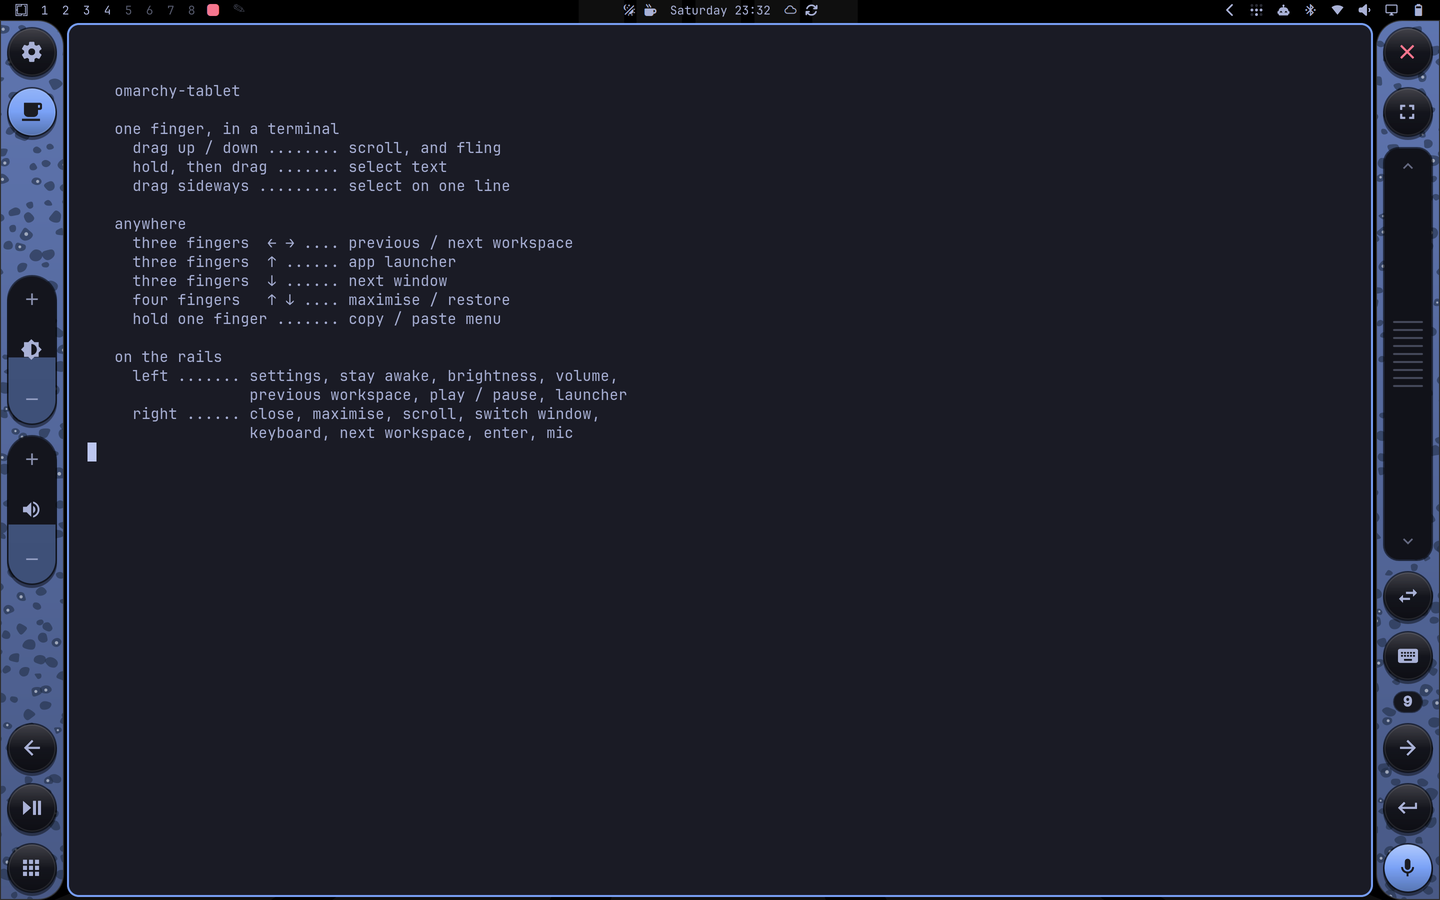
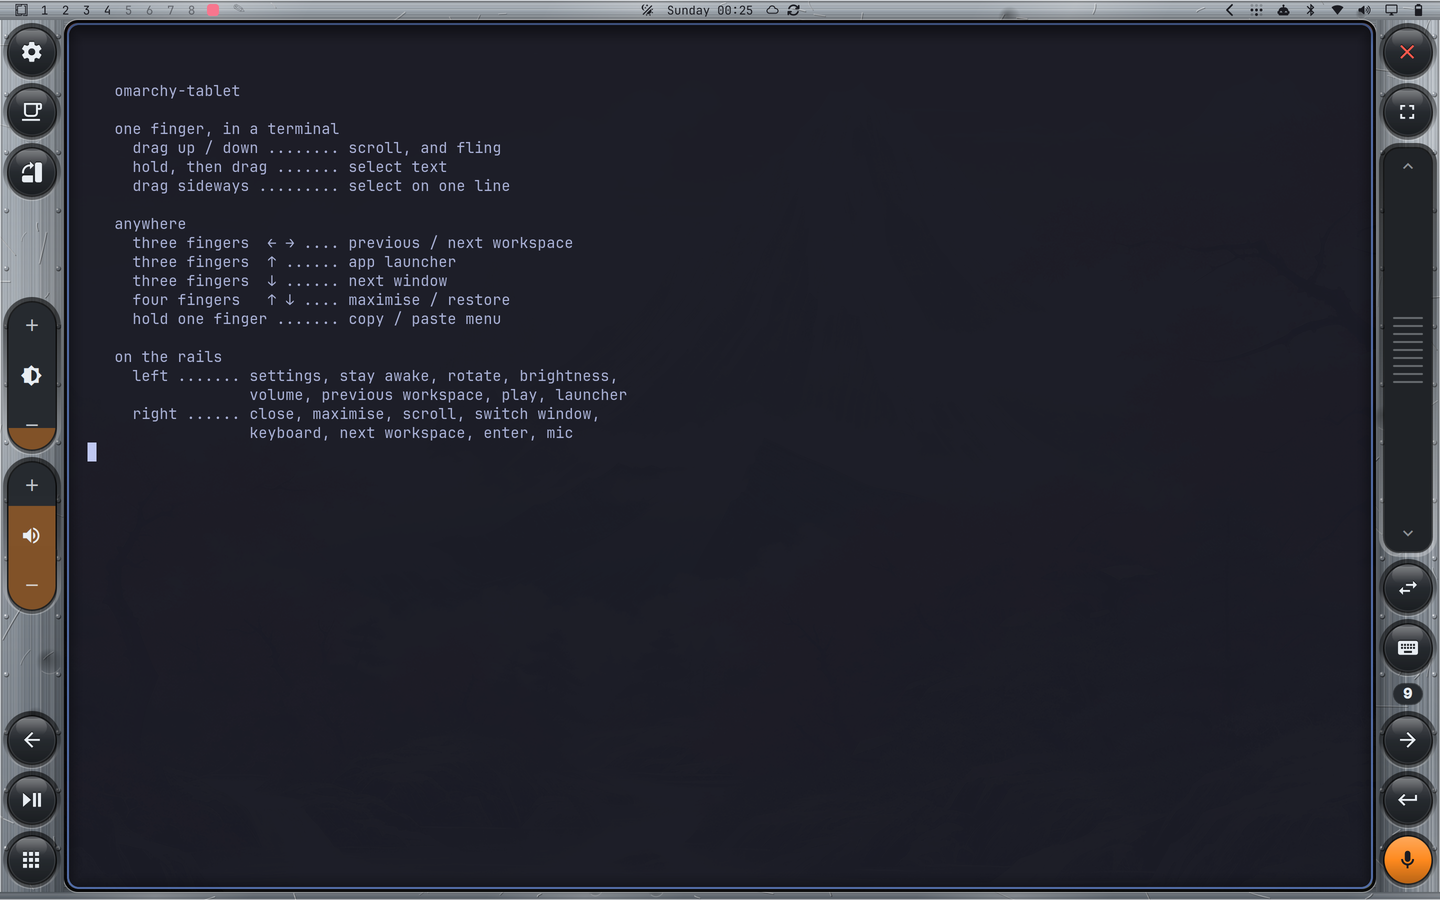
Make the frame read as an object: a recessed screen, sockets, chamfers, sheen
The screen is set down into the frame (a lit lip, the dark wall of the
recess, the frame's shadow on the screen); every control sits in a socket
with an engraved legend; outer edges are chamfered; metal and wood throw
the light back in broad bands. New screenshots.

Changed region(s): [[0.0, 0.0, 1.0, 1.0], [0.1875, 0.4044, 0.4062, 0.4667]]

diff --git a/shell/plugins/tablet.rail/Main.qml b/shell/plugins/tablet.rail/Main.qml
@@ -195,11 +195,11 @@ Item {
     // and a split in the wood, seams and warning marks on the hull.
     case "metal": return {
         label: "Metal", shellTop: "#a4adb6", shellBottom: "#626b75", cap: "#272b30", legend: "#e8edf2",
-        accent: "#ff8a1f", close: "#ff5a4d", pattern: "brushed+scratches+rivets",
+        accent: "#ff8a1f", close: "#ff5a4d", pattern: "brushed+sheen+scratches+rivets",
         ink: "#000000", glow: "#ffffff" }
     case "wood": return {
         label: "Wood", shellTop: "#b07a45", shellBottom: "#734825", cap: "#2a190d", legend: "#f3ddb8",
-        accent: "#d9a441", close: "#e0553d", pattern: "grain+cracks",
+        accent: "#d9a441", close: "#e0553d", pattern: "grain+cracks+sheen",
         ink: "#3a2110", glow: "#d7a06a" }
     case "spaceship": return {
         label: "Spaceship", shellTop: "#232e3b", shellBottom: "#0d131b", cap: "#090e14", legend: "#7ff3ff",
@@ -249,7 +249,7 @@ Item {
   // A rim skin keeps its coloured edge. Otherwise the edge is a thin dark seam:
   // the frame is shaded to fall away into the screen, and a pale line there (as
   // it was) made a second border round the windows' own.
-  readonly property color frameEdge: !skin ? "transparent" : (skin.rim ? skin.rim : Qt.alpha("black", 0.55))
+  readonly property color frameEdge: !skin ? "transparent" : (skin.rim ? skin.rim : Qt.alpha("black", 0.0))
   readonly property int frameEdgeWidth: skin && skin.rim ? 3 : 1
   readonly property string barWanted: barSkinned ? barText : ""
   onBarWantedChanged: applyBar()
@@ -611,6 +611,17 @@ Item {
       GradientStop { position: 0.5; color: b.capBase }
       GradientStop { position: 1.0; color: area.pressed ? Qt.tint(b.capBase, Qt.alpha("white", 0.08)) : Qt.darker(b.capBase, 1.45) }
     }
+    Rectangle {       // the socket: a recess in the shell the cap sits in. Its
+      visible: b.cap  // upper lip is in shadow, its lower lip catches the light.
+      z: -2
+      anchors.centerIn: parent
+      width: parent.width + 8; height: parent.height + 8; radius: width / 2
+      gradient: Gradient {
+        GradientStop { position: 0.0; color: Qt.alpha("black", 0.62) }
+        GradientStop { position: 0.55; color: Qt.alpha("black", 0.30) }
+        GradientStop { position: 1.0; color: Qt.alpha("white", 0.30) }
+      }
+    }
     Rectangle {       // the shadow the cap throws on the shell
       visible: b.cap && !area.pressed
       z: -1
@@ -646,8 +657,9 @@ Item {
                    : (b.lit ? Color.background : Color.popups.text)
       font.pixelSize: b.glyphSize
       font.bold: b.boldGlyph
-      style: Text.Outline
-      styleColor: (b.cap || b.fill > 0.9) ? "transparent" : b.idleColor
+      // On a cap the legend is cut into the surface: a dark edge above it.
+      style: b.cap ? Text.Sunken : Text.Outline
+      styleColor: b.cap ? Qt.alpha("black", 0.55) : (b.fill > 0.9 ? "transparent" : b.idleColor)
     }
 
     MouseArea {
@@ -709,6 +721,17 @@ Item {
       GradientStop { position: 0.0; color: area.pressed ? Qt.darker(m.capBase, 1.3) : Qt.lighter(m.capBase, 1.25) }
       GradientStop { position: 0.5; color: m.capBase }
       GradientStop { position: 1.0; color: area.pressed ? Qt.lighter(m.capBase, 1.1) : Qt.darker(m.capBase, 1.4) }
+    }
+    Rectangle {       // the socket (see TouchButton)
+      visible: m.cap
+      z: -2
+      anchors.centerIn: parent
+      width: parent.width + 8; height: parent.height + 8; radius: width / 2
+      gradient: Gradient {
+        GradientStop { position: 0.0; color: Qt.alpha("black", 0.62) }
+        GradientStop { position: 0.55; color: Qt.alpha("black", 0.30) }
+        GradientStop { position: 1.0; color: Qt.alpha("white", 0.30) }
+      }
     }
     Rectangle {
       visible: m.cap && !area.pressed
@@ -813,6 +836,17 @@ Item {
                : Qt.alpha(Color.popups.text, area.pressed || fling.running ? 0.16 : 0.07)
     border.width: cap ? 1.5 : 0
     border.color: Qt.alpha("black", 0.6)
+    Rectangle {       // the slot the wheel turns in
+      visible: st.cap
+      z: -2
+      anchors.centerIn: parent
+      width: parent.width + 8; height: parent.height + 8; radius: parent.radius + 4
+      gradient: Gradient {
+        GradientStop { position: 0.0; color: Qt.alpha("black", 0.62) }
+        GradientStop { position: 0.5; color: Qt.alpha("black", 0.28) }
+        GradientStop { position: 1.0; color: Qt.alpha("white", 0.30) }
+      }
+    }
     Behavior on color { ColorAnimation { duration: 120 } }
 
     Text {
@@ -913,6 +947,17 @@ Item {
     radius: width / 2
     border.color: cap ? Qt.alpha("black", 0.6) : Color.popups.border
     border.width: cap ? 1.5 : 2
+    Rectangle {       // the socket (see TouchButton)
+      visible: rk.cap
+      z: -2
+      anchors.centerIn: parent
+      width: parent.width + 8; height: parent.height + 8; radius: width / 2
+      gradient: Gradient {
+        GradientStop { position: 0.0; color: Qt.alpha("black", 0.62) }
+        GradientStop { position: 0.5; color: Qt.alpha("black", 0.28) }
+        GradientStop { position: 1.0; color: Qt.alpha("white", 0.30) }
+      }
+    }
     Rectangle {
       visible: rk.cap
       z: -1
@@ -1312,6 +1357,16 @@ Item {
             c.beginPath(); c.arc(x, y, 2.6, 0, 6.283); c.fillStyle = glow; c.fill()      // a solder pad
             c.beginPath(); c.arc(x, y, 1.0, 0, 6.283); c.fillStyle = "#99000000"; c.fill()
           }
+        } else if (pat === "sheen") {
+          // Polished surfaces throw the light back in broad soft bands. Laid
+          // out in screen coordinates, so a band crosses from bar to rail.
+          for (k = -2; k < 5; k++) {
+            var bx = k * 430 + 120
+            var gg = c.createLinearGradient(bx, 0, bx + 150, 150 * 0.55)
+            gg.addColorStop(0, "rgba(255,255,255,0)"); gg.addColorStop(0.5, "rgba(255,255,255,0.20)"); gg.addColorStop(1, "rgba(255,255,255,0)")
+            c.globalAlpha = 1; c.fillStyle = gg
+            c.fillRect(X0, Y0, w, h)
+          }
         } else if (pat === "brushed") {
           // Brushed metal: hundreds of faint hairlines along the piece's length.
           var lengthwise = w > h * 3
@@ -1487,6 +1542,9 @@ Item {
         sg.addColorStop(1, "rgba(0,0,0,0.30)")
         c.fillStyle = sg; c.fillRect(0, frameFlip ? top : 0, w, band)
         if (framed) { c.fillStyle = "rgba(0,0,0,0.30)"; c.fillRect(0, frameFlip ? 0 : band, w, top) }
+        // The chamfer along the outer edge, as on the rails.
+        c.fillStyle = "rgba(255,255,255,0.42)"; c.fillRect(0, frameFlip ? h - 1 : 0, w, 1)
+        c.fillStyle = "rgba(0,0,0,0.22)"; c.fillRect(0, frameFlip ? h - 2.5 : 1, w, 1.5)
       }
       c.restore()
       if (framed && edge.a > 0) {       // the frame's inside edge, round the corners
@@ -1595,6 +1653,16 @@ Item {
           GradientStop { position: 0.55; color: "transparent" }
           GradientStop { position: 1.0; color: Qt.alpha("white", 0.14) }
         }
+      }
+      Rectangle {       // the chamfer along the outer edge: a bright line, a dark one inside it
+        visible: root.skin !== null && !rail.upright
+        x: parent.width - 1; width: 1; height: parent.height
+        color: Qt.alpha("white", 0.42)
+      }
+      Rectangle {
+        visible: root.skin !== null && !rail.upright
+        x: parent.width - 2.5; width: 1.5; height: parent.height
+        color: Qt.alpha("black", 0.22)
       }
       CharField {
         anchors.fill: parent
@@ -1830,6 +1898,16 @@ Item {
           GradientStop { position: 0.45; color: "transparent" }
           GradientStop { position: 1.0; color: Qt.alpha("black", 0.30) }
         }
+      }
+      Rectangle {
+        visible: root.skin !== null
+        x: 0; width: 1; height: parent.height
+        color: Qt.alpha("white", 0.42)
+      }
+      Rectangle {
+        visible: root.skin !== null
+        x: 1; width: 1.5; height: parent.height
+        color: Qt.alpha("black", 0.22)
       }
       CharField {
         anchors.fill: parent
@@ -2069,6 +2147,73 @@ Item {
       seed: 61
       ink: root.skin ? root.skin.ink : "transparent"
       glow: root.skin ? root.skin.glow : "transparent"
+    }
+  }
+
+  // The screen sits BELOW the frame's surface, and this is what says so: where
+  // the frame ends there is a lit lip, then the dark wall of the recess (it
+  // fills the few pixels the windows leave, where the wallpaper used to show
+  // through as a coloured line), then the shadow the frame throws across the
+  // edge of the screen. Drawn over the windows and never touchable.
+  PanelWindow {
+    id: recess
+    visible: root.framed
+    screen: Quickshell.screens.length > 0 ? Quickshell.screens[0] : null
+    color: "transparent"
+    WlrLayershell.namespace: "omarchy-tablet-bar"
+    WlrLayershell.layer: WlrLayer.Top
+    WlrLayershell.keyboardFocus: WlrKeyboardFocus.None
+    exclusionMode: ExclusionMode.Ignore
+    anchors { top: true; bottom: true; left: true; right: true }
+    mask: Region {}
+
+    Canvas {
+      id: recessCanvas
+      anchors.fill: parent
+      readonly property real l: root.dual ? root.railSize : 0
+      readonly property real r: width - root.railSize
+      readonly property real t: Style.bar.sizeHorizontal
+      readonly property real b: height - root.bezel
+      readonly property real rad: root.frameRadius
+      readonly property real wall: 3              // the windows' gap to the frame
+      onWidthChanged: requestPaint()
+      onHeightChanged: requestPaint()
+      onLChanged: requestPaint()
+      onTChanged: requestPaint()
+      onVisibleChanged: requestPaint()
+      onPaint: {
+        var c = getContext("2d")
+        c.reset()
+        if (!visible || width < 8) return
+        function ring(inset, rr) {                 // the recess outline, `inset` px inside it
+          var x0 = l + inset, y0 = t + inset, x1 = r - inset, y1 = b - inset, q = Math.max(0.5, rr - inset)
+          c.beginPath()
+          c.moveTo(x0 + q, y0); c.lineTo(x1 - q, y0); c.arcTo(x1, y0, x1, y0 + q, q)
+          c.lineTo(x1, y1 - q); c.arcTo(x1, y1, x1 - q, y1, q)
+          c.lineTo(x0 + q, y1); c.arcTo(x0, y1, x0, y1 - q, q)
+          c.lineTo(x0, y0 + q); c.arcTo(x0, y0, x0 + q, y0, q)
+          c.closePath()
+        }
+        // Nothing outside the recess: the frame itself is drawn elsewhere.
+        ring(0, rad); c.save(); c.clip()
+        // The wall of the recess.
+        c.strokeStyle = "rgba(6,7,10,0.96)"; c.lineWidth = wall * 2
+        ring(0, rad); c.stroke()
+        // The frame's shadow on the screen: deepest against the wall, gone in
+        // a dozen pixels; and heavier under the top edge, where the light is.
+        for (var i = 1; i <= 7; i++) {
+          c.strokeStyle = "rgba(0,0,0," + (0.085 - i * 0.008).toFixed(3) + ")"
+          c.lineWidth = (wall + i * 2.2) * 2
+          ring(0, rad); c.stroke()
+        }
+        var g = c.createLinearGradient(0, t, 0, t + 26)
+        g.addColorStop(0, "rgba(0,0,0,0.30)"); g.addColorStop(1, "rgba(0,0,0,0)")
+        c.fillStyle = g; c.fillRect(l, t, r - l, 26)
+        c.restore()
+        // The lip: light catching the edge where the frame turns down.
+        c.strokeStyle = "rgba(255,255,255,0.38)"; c.lineWidth = 1
+        ring(-0.5, rad); c.stroke()
+      }
     }
   }
 

diff --git a/README.md b/README.md
@@ -2,7 +2,7 @@
 
 **Omarchy, on a tablet.**
 
-![A terminal between the two rails, in the Cheetah look](docs/hero.png)
+![A terminal set into the frame, in the Metal look](docs/hero.png)
 
 Big tablets have never been good computers. The hardware has been ready for years: a 13-inch slate today has a screen as large as a laptop's and a processor that keeps up with one. What has never arrived is software that makes use of it. A phone interface stretched across thirteen inches wastes the screen. A desktop interface with the keyboard taken away is worse: there is no way to close a window, switch to another one, or type a password. So the big tablet ends up as the device you watch films on, next to the computer you actually work on.
 
@@ -21,7 +21,9 @@ No compositor plugin to rebuild on every update, and no new desktop to learn. It
 | | |
 |---|---|
 | ![The plain Omarchy look](docs/plain.png) | ![The settings panel](docs/settings.png) |
-| The default look follows your Omarchy theme. | The settings panel: looks, one rail or two, button sounds. |
+| The default look follows your Omarchy theme. | The settings panel: looks, rotation, one rail or two, button sounds. |
+| ![The Spaceship look](docs/spaceship.png) | ![The Wood look](docs/wood.png) |
+| Spaceship: hull plates, warning stripes, status lights. | Wood: grain, knots and a split or two. |
 
 ## What you get
 
@@ -94,6 +96,8 @@ By default the rails are drawn like every other Omarchy surface: your theme's co
 | `spaceship` | Hull plating: seams, bolts, vents, warning stripes and status lights. |
 
 Choose one in the settings panel (the cog at the top of the left rail), or with `tablet-mode look <name>`.
+
+**Made to look like a thing you are holding.** In a controller look the screen is set down into the frame: a lit lip where the frame ends, the dark wall of the recess, and the shadow the frame throws across the edge of the screen. Every button sits in a socket cut into the shell, with its legend engraved. The frame's outer edges are chamfered, light falls across it from above, and polished materials throw it back in broad bands.
 
 **The bar joins in.** With a controller look on, Omarchy's top bar is drawn in the same shell, pattern and all, and meets the rails in rounded inside corners; a thin bezel in the same shell closes the frame along the bottom (it takes 8 px of height), so the screen sits inside one object. The bar's writing switches to dark or light to suit. With the plain look, with the keyboard attached, or with the bar somewhere other than the top, the bar is left exactly as your theme has it.
 
